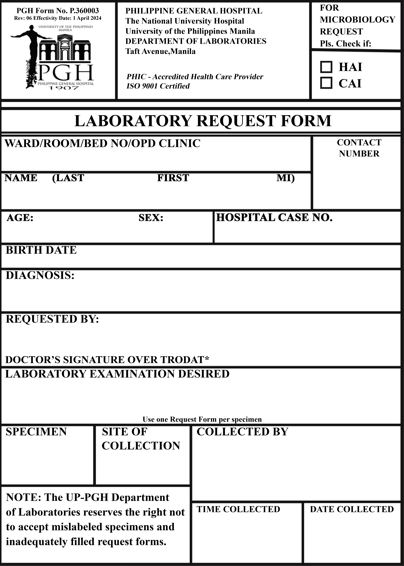
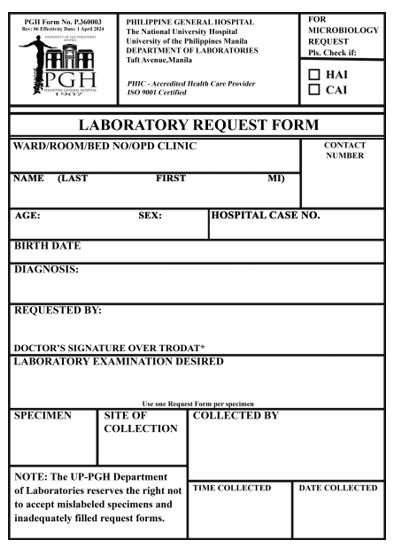
feat(ui): implement dynamic font scaling for lab fields
Introduce AutoFitField component to automatically adjust font size based on input length, ensuring text fits within designated container areas. Refactor layout styles for better responsiveness and rendering.

diff --git a/src/components/LabForm.tsx b/src/components/LabForm.tsx
@@ -1,5 +1,5 @@
-import React, { useState, useEffect, useRef } from 'react';
-import { LabRequest, MaterialDetail, Reminder } from '../types';
+import React, { useState, useEffect, useRef, useLayoutEffect } from 'react';
+import { LabRequest } from '../types';
 import { RENDER_FIELDS } from '../constants';
 
 interface LabFormProps {
@@ -7,43 +7,153 @@ interface LabFormProps {
   onUpdate: (updatedForm: LabRequest) => void;
 }
 
+interface AutoFitFieldProps {
+  element?: 'input' | 'textarea';
+  className: string;
+  baseFontSize: number;
+  value: string;
+  onChange: (value: string) => void;
+  onDoubleClick: (e: React.MouseEvent) => void;
+  title?: string;
+}
+
+const AutoFitField: React.FC<AutoFitFieldProps> = ({
+  element = 'input',
+  className,
+  baseFontSize,
+  value,
+  onChange,
+  onDoubleClick,
+  title
+}) => {
+  const ref = useRef<HTMLInputElement | HTMLTextAreaElement>(null);
+  const [scale, setScale] = useState<number>(1.0);
+
+  const baseCqw = (baseFontSize / 415) * 100;
+
+  useLayoutEffect(() => {
+    const el = ref.current;
+    if (!el) return;
+
+    const calculateScale = () => {
+      const minScale = 0.25; // Scale down to 25% if text is very long
+      const maxScale = 1.0;
+
+      // Start by checking if maxScale (1.0) already fits without overflow
+      el.style.fontSize = `${baseCqw * maxScale}cqw`;
+      if (el.scrollWidth <= el.clientWidth + 1 && el.scrollHeight <= el.clientHeight + 1) {
+        return maxScale;
+      }
+
+      // Binary search for the maximum font size scale that fits inside the box
+      let low = minScale;
+      let high = maxScale;
+      let best = minScale;
+
+      for (let i = 0; i < 10; i++) {
+        const mid = (low + high) / 2;
+        el.style.fontSize = `${baseCqw * mid}cqw`;
+
+        const overflows = el.scrollWidth > el.clientWidth + 1 || el.scrollHeight > el.clientHeight + 1;
+
+        if (overflows) {
+          high = mid;
+        } else {
+          best = mid;
+          low = mid;
+        }
+      }
+
+      return best;
+    };
+
+    const bestScale = calculateScale();
+    setScale(bestScale);
+
+    const observer = new ResizeObserver(() => {
+      if (ref.current) {
+        const newScale = calculateScale();
+        setScale(newScale);
+      }
+    });
+
+    if (el.parentElement) {
+      observer.observe(el.parentElement);
+    }
+
+    return () => {
+      observer.disconnect();
+    };
+  }, [value, baseCqw]);
+
+  const finalStyle: React.CSSProperties = {
+    fontSize: `${baseCqw * scale}cqw`
+  };
+
+  if (element === 'textarea') {
+    return (
+      <textarea
+        ref={ref as React.RefObject<HTMLTextAreaElement>}
+        className={className}
+        style={finalStyle}
+        value={value}
+        onChange={(e) => onChange(e.target.value)}
+        onDoubleClick={onDoubleClick}
+        title={title}
+      />
+    );
+  }
+
+  return (
+    <input
+      ref={ref as React.RefObject<HTMLInputElement>}
+      type="text"
+      className={className}
+      style={finalStyle}
+      value={value}
+      onChange={(e) => onChange(e.target.value)}
+      onDoubleClick={onDoubleClick}
+      title={title}
+    />
+  );
+};
+
 const LabForm: React.FC<LabFormProps> = ({ form, onUpdate }) => {
   const [fontSizes, setFontSizes] = useState<Record<string, number>>({});
   const [setter, setSetter] = useState<{ visible: boolean; x: number; y: number; field: string; baseSize: number } | null>(null);
-  const formRef = useRef<HTMLDivElement>(null);
+
+  // Clear any temporary editor positions saved in localStorage
+  useEffect(() => {
+    try {
+      localStorage.removeItem('lrf_field_positions');
+    } catch (e) {
+      console.error(e);
+    }
+  }, []);
 
   const cleanAgeSex = (ageSexString: string) => {
     if (!ageSexString) return { age: '', sex: '' };
-    // Remove "years old" and other common suffixes
     let cleaned = ageSexString.toLowerCase().replace(/years old|yo|y\/o|yrs|yr/g, '').trim();
 
-    // Try to find a separator first
     let age = '';
     let sex = '';
 
     if (cleaned.includes('/')) {
-      let parts = cleaned.split('/');
-      age = parts[0].trim();
-      sex = parts[1].trim().toUpperCase();
-    } else if (cleaned.includes(',')) {
-      let parts = cleaned.split(',');
+      const parts = cleaned.split('/');
       age = parts[0].trim();
       sex = parts[1].trim().toUpperCase();
     } else {
-      // No standard separator, try to split by the last character if it's M or F
       const lastChar = cleaned.slice(-1).toUpperCase();
       if (lastChar === 'M' || lastChar === 'F') {
         sex = lastChar;
         age = cleaned.slice(0, -1).trim();
       } else {
-        // Fallback to space split
         let parts = cleaned.split(' ');
         sex = parts.pop()?.toUpperCase() || '';
         age = parts.join(' ').trim();
       }
     }
 
-    // Final cleanup: ensure sex is just M or F
     if (sex.includes('MALE')) sex = 'M';
     if (sex.includes('FEMALE')) sex = 'F';
     if (sex.length > 1 && (sex.startsWith('M') || sex.startsWith('F'))) {
@@ -59,29 +169,22 @@ const LabForm: React.FC<LabFormProps> = ({ form, onUpdate }) => {
     const rect = (e.target as HTMLElement).getBoundingClientRect();
     setSetter({
       visible: true,
-      x: rect.right + 10,
-      y: rect.top,
+      x: rect.left,
+      y: rect.bottom + 5,
       field: fieldClass,
       baseSize: fontSizes[fieldClass] || defaultSize
     });
   };
 
-  const applyFontSize = (size: number) => {
+  const handleFontSizeChange = (size: number) => {
     if (setter) {
       setFontSizes(prev => ({ ...prev, [setter.field]: size }));
       setSetter(null);
     }
   };
 
-  const shrinkToFit = (text: string, width: number, height: number, baseSize: number, isMultiLine: boolean) => {
-    // This is a simplified version for React rendering. 
-    // In a real app, we might use a hidden canvas or div to measure.
-    // For now, we'll return the baseSize and rely on CSS for basic overflow.
-    return baseSize;
-  };
-
   return (
-    <div className="form-container" ref={formRef}>
+    <div className="form-container">
       <div 
         className="form-preview lrf-coords"
         style={{ backgroundImage: `url(${import.meta.env.BASE_URL}single_lrf.jpg)` }}
@@ -91,31 +194,15 @@ const LabForm: React.FC<LabFormProps> = ({ form, onUpdate }) => {
           
           const value = field.key === 'name' ? (form.name || '').toUpperCase() : (form as any)[field.key] || '';
           const baseSize = fontSizes[field.class] || field.defaultFontSize || 16;
-          // Convert px to cqw (container query width) for responsiveness
-          // 16px at 415px width is ~3.85cqw
-          const cqwSize = (baseSize / 415) * 100;
           
-          if (field.element === 'textarea') {
-            return (
-              <textarea
-                key={idx}
-                className={`overlay-field ${field.class}`}
-                style={{ fontSize: `${cqwSize}cqw` }}
-                value={value}
-                onChange={(e) => onUpdate({ ...form, [field.key!]: e.target.value })}
-                onDoubleClick={(e) => handleDoubleClick(e, field.class, field.defaultFontSize || 16)}
-                title={field.title}
-              />
-            );
-          }
           return (
-            <input
+            <AutoFitField
               key={idx}
-              type="text"
+              element={field.element === 'textarea' ? 'textarea' : 'input'}
               className={`overlay-field ${field.class}`}
-              style={{ fontSize: `${cqwSize}cqw` }}
+              baseFontSize={baseSize}
               value={value}
-              onChange={(e) => onUpdate({ ...form, [field.key!]: e.target.value })}
+              onChange={(val) => onUpdate({ ...form, [field.key!]: val })}
               onDoubleClick={(e) => handleDoubleClick(e, field.class, field.defaultFontSize || 16)}
               title={field.title}
             />
@@ -123,29 +210,32 @@ const LabForm: React.FC<LabFormProps> = ({ form, onUpdate }) => {
         })}
 
         {/* Special Fields */}
-        <input
-          type="text"
+        <AutoFitField
+          element="input"
           className="overlay-field age-sex-age"
-          style={{ fontSize: `${((fontSizes['age-sex-age'] || 16) / 415) * 100}cqw` }}
+          baseFontSize={fontSizes['age-sex-age'] || 16}
           value={ageSexData.age}
-          onChange={(e) => onUpdate({ ...form, age_sex: `${e.target.value}/${ageSexData.sex}` })}
+          onChange={(val) => onUpdate({ ...form, age_sex: `${val}/${ageSexData.sex}` })}
           onDoubleClick={(e) => handleDoubleClick(e, 'age-sex-age', 16)}
           title="AGE"
         />
-        <input
-          type="text"
+
+        <AutoFitField
+          element="input"
           className="overlay-field age-sex-sex"
-          style={{ fontSize: `${((fontSizes['age-sex-sex'] || 16) / 415) * 100}cqw` }}
+          baseFontSize={fontSizes['age-sex-sex'] || 16}
           value={ageSexData.sex}
-          onChange={(e) => onUpdate({ ...form, age_sex: `${ageSexData.age}/${e.target.value}` })}
+          onChange={(val) => onUpdate({ ...form, age_sex: `${ageSexData.age}/${val}` })}
           onDoubleClick={(e) => handleDoubleClick(e, 'age-sex-sex', 16)}
           title="SEX"
         />
-        <textarea
+
+        <AutoFitField
+          element="textarea"
           className="overlay-field requests-field"
-          style={{ fontSize: `${((fontSizes['requests-field'] || 16) / 415) * 100}cqw` }}
-          value={form.requests_list}
-          onChange={(e) => onUpdate({ ...form, requests_list: e.target.value })}
+          baseFontSize={fontSizes['requests-field'] || 16}
+          value={form.requests_list || ''}
+          onChange={(val) => onUpdate({ ...form, requests_list: val })}
           onDoubleClick={(e) => handleDoubleClick(e, 'requests-field', 16)}
           title="LAB EXAM"
         />
@@ -154,20 +244,18 @@ const LabForm: React.FC<LabFormProps> = ({ form, onUpdate }) => {
       {setter && setter.visible && (
         <div 
           className="font-setter-container"
-          style={{ left: setter.x, top: setter.y }}
+          style={{ left: `${setter.x}px`, top: `${setter.y}px` }}
         >
-          <span>Size:</span>
-          <input
-            type="number"
-            className="font-setter-input"
-            defaultValue={setter.baseSize}
-            min={10}
-            max={30}
-            autoFocus
-            onBlur={(e) => applyFontSize(parseInt(e.target.value))}
+          <label className="text-xs font-medium text-slate-700 dark:text-slate-300">Font Size (px): </label>
+          <input 
+            type="number" 
+            className="w-16 px-2 py-1 text-xs border rounded bg-white dark:bg-slate-800 text-slate-900 dark:text-slate-100"
+            defaultValue={setter.baseSize} 
+            onBlur={(e) => handleFontSizeChange(parseFloat(e.target.value) || setter.baseSize)}
             onKeyDown={(e) => {
-              if (e.key === 'Enter') applyFontSize(parseInt((e.target as HTMLInputElement).value));
+              if (e.key === 'Enter') handleFontSizeChange(parseFloat((e.target as HTMLInputElement).value) || setter.baseSize);
             }}
+            autoFocus
           />
         </div>
       )}

diff --git a/src/index.css b/src/index.css
@@ -194,20 +194,23 @@ textarea {
 
 /* Form Container */
 .form-container {
-  @apply bg-white border border-[#ccc] shadow-[0_2px_8px_rgba(0,0,0,0.1)] w-full max-w-[415px] aspect-[415/587] relative overflow-hidden rounded-[4px] mx-auto md:mx-0 transition-all duration-300;
-  container-type: inline-size;
+  @apply bg-white border border-[#ccc] shadow-[0_2px_8px_rgba(0,0,0,0.1)] w-full max-w-[415px] relative rounded-[8px] mx-auto md:mx-0 transition-all duration-300;
 }
 .dark .form-container {
   @apply bg-[#1e293b] border-[#334155] shadow-[0_4px_12px_rgba(0,0,0,0.4)];
 }
 
 .form-preview {
-  @apply w-full h-full bg-no-repeat relative bg-center bg-gray-50 border border-gray-200;
+  @apply w-full aspect-[415/587] bg-no-repeat relative bg-center bg-gray-50 border border-gray-200 overflow-hidden rounded-[4px];
   background-size: 100% 100%;
+  container-type: inline-size;
 }
 
 .overlay-field {
   @apply absolute font-sans text-black border border-dashed border-[#007bff] bg-[rgba(0,123,255,0.1)] px-[2px] box-border z-10 resize-none overflow-hidden text-left whitespace-pre-wrap origin-top-left transition-colors duration-300;
+  word-break: break-word;
+  overflow-wrap: anywhere;
+  line-height: 1.15;
 }
 
 .dark .overlay-field {
@@ -227,20 +230,20 @@ textarea {
 }
 
 /* Coordinates - Percentage based for responsiveness */
-.ward-location { top: 25.55%; left: 1.93%; width: 74.7%; height: 4.43%; text-transform: uppercase;}
-.patient-name { top: 32.37%; left: 1.93%; width: 74.7%; height: 4.43%; text-transform: uppercase;}
-.age-sex-age { top: 38.33%; left: 2.41%; width: 12.05%; height: 4.26%; }
-.age-sex-sex { top: 38.33%; left: 35.9%; width: 12.05%; height: 4.26%; }
-.case-number { top: 38.33%; left: 55.9%; width: 31.33%; height: 4.26%; }
+.ward-location { top: 26.25%; left: 2.33%; width: 74.70%; height: 4.43%; text-transform: uppercase; }
+.patient-name { top: 32.37%; left: 2.33%; width: 74.70%; height: 4.43%; text-transform: uppercase; }
+.age-sex-age { top: 38.33%; left: 2.81%; width: 12.05%; height: 4.26%; }
+.age-sex-sex { top: 38.33%; left: 35.90%; width: 12.05%; height: 4.26%; }
+.case-number { top: 38.33%; left: 55.90%; width: 31.33%; height: 4.26%; }
 .birthday { top: 42.93%; left: 21.69%; width: 72.29%; height: 4.26%; }
 .diagnosis { top: 48.55%; left: 21.69%; width: 81.93%; height: 5.11%; }
 .requested-by { top: 57.07%; left: 1.93%; width: 91.57%; height: 5.11%; }
-.requests-field { top: 66.44%; left: 1.93%; width: 96.39%; height: 7.67%; }
-.specimen-type { top: 79.22%; left: 1.93%; width: 18.07%; height: 5.11%; }
-.site-of-collection { top: 79.73%; left: 26.51%; width: 18.07%; height: 5.11%; }
-.time-collected { top: 91.65%; left: 50.6%; width: 21.69%; height: 5.11%; }
-.date-collected { top: 91.65%; left: 77.11%; width: 21.69%; height: 5.11%; }
-.collected-by { top: 79.22%; left: 53.01%; width: 36.14%; height: 5.11%; }
+.requests-field { top: 64.45%; left: 2.18%; width: 95.66%; height: 8.01%; }
+.specimen-type { top: 76.14%; left: 4.59%; width: 18.07%; height: 5.11%; }
+.site-of-collection { top: 77.50%; left: 27.24%; width: 18.07%; height: 5.11%; }
+.collected-by { top: 77.34%; left: 49.13%; width: 47.77%; height: 5.62%; }
+.time-collected { top: 89.42%; left: 50.60%; width: 21.69%; height: 5.11%; }
+.date-collected { top: 89.25%; left: 75.66%; width: 21.69%; height: 5.11%; }
 
 /* Materials & Reminders */
 .materials-and-reminders-group {
